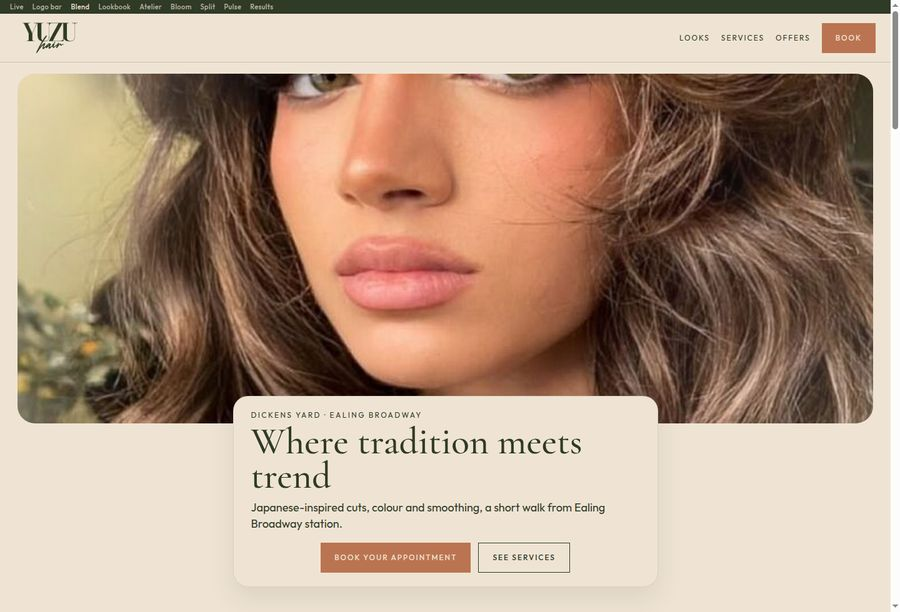
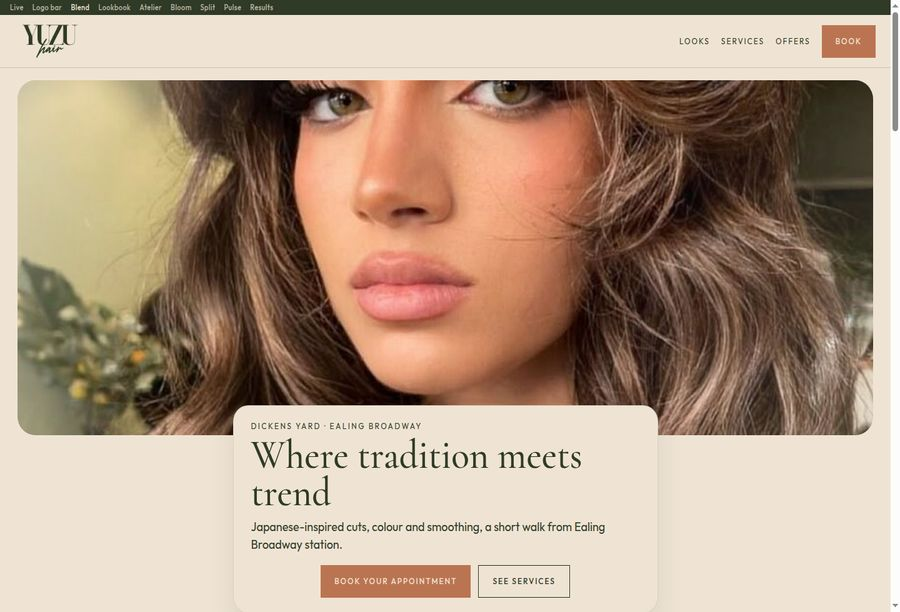
Show the hero's eyes and spread the Blend footer.
The photograph sits higher in the frame so both eyes stay in view, sections sit closer together, and the footer runs contact, hours, and booking across the width with the legal line from edge to edge.

diff --git a/site/versions/blend.css b/site/versions/blend.css
@@ -14,11 +14,7 @@
   height: min(58vh, 560px);
   border-radius: 28px;
 }
-.blend .hero-photo img {
-  object-position: center 62%;
-  transform: scale(1.08);
-  transform-origin: center 70%;
-}
+.blend .hero-photo img { object-position: center 22%; }
 .blend .hero-copy {
   position: relative;
   z-index: 2;
@@ -41,6 +37,8 @@
 .blend .hero-copy .lede { max-width: 34em; }
 .blend .hero-copy .actions { margin-top: 16px; justify-content: center; }
 .blend .center-cta { text-align: center; }
+.blend .section { padding: 28px 40px; }
+.blend .section-head { margin-bottom: 16px; }
 .blend .section-head h1 {
   font-family: var(--serif);
   font-weight: 500;
@@ -140,7 +138,7 @@
   grid-template-columns: 1.15fr 0.85fr;
   gap: 40px;
   align-items: center;
-  padding: 56px 40px;
+  padding: 28px 40px;
 }
 .blend .join-photos {
   display: grid;
@@ -165,14 +163,37 @@
 .blend .join-links { display: flex; flex-wrap: wrap; gap: 12px; align-items: center; }
 
 .blend .visit {
-  gap: 14px 28px;
+  grid-template-columns: repeat(3, minmax(0, 1fr));
+  align-items: start;
+  gap: 20px 32px;
   padding: 28px 40px 16px;
 }
-.blend .visit h2 { font-size: 22px; margin-bottom: 4px; }
+.blend .visit > div:nth-child(2) { justify-self: center; }
+.blend .visit h2 { font-size: 22px; margin-bottom: 6px; }
 .blend .visit p { font-size: 14px; line-height: 1.35; }
 .blend .visit p + p { margin-top: 8px; }
-.blend .visit .legal { font-size: 12px; margin-top: 2px; }
-.blend .visit-book { display: flex; flex-direction: column; align-items: flex-start; gap: 10px; }
+.blend .visit .legal {
+  display: flex;
+  justify-content: space-between;
+  align-items: baseline;
+  gap: 24px;
+  width: 100%;
+  max-width: none;
+  margin: 6px 0 0;
+  padding-top: 14px;
+  border-top: 1px solid rgb(239 228 212 / 0.28);
+  font-size: 13px;
+  line-height: 1.4;
+}
+.blend .legal-links { text-align: right; }
+.blend .visit-book {
+  display: flex;
+  flex-direction: column;
+  align-items: flex-end;
+  justify-self: end;
+  gap: 10px;
+  text-align: right;
+}
 .blend .socials {
   display: flex;
   gap: 10px;
@@ -196,13 +217,17 @@ body.blend a.blend-book { display: none; }
 @media (max-width: 980px) {
   .blend .services,
   .blend .reviews { grid-template-columns: 1fr 1fr; }
-  .blend .join { grid-template-columns: 1fr; padding: 40px 18px; }
+  .blend .join { grid-template-columns: 1fr; padding: 28px 18px; }
+  .blend .visit { grid-template-columns: 1fr 1fr; }
+  .blend .visit > div:nth-child(2),
+  .blend .visit-book { justify-self: start; }
+  .blend .visit-book { align-items: flex-start; text-align: left; }
 }
 
 @media (max-width: 700px) {
   .blend .hero-float { padding: 12px 12px 0; }
   .blend .hero-photo { height: 78vw; border-radius: 18px; }
-  .blend .hero-photo img { transform: none; object-position: center 48%; }
+  .blend .hero-photo img { object-position: center 18%; }
   .blend .hero-copy {
     width: calc(100% - 16px);
     margin-top: -28px;
@@ -236,7 +261,13 @@ body.blend a.blend-book { display: none; }
   .fx-bar.open ~ .blend-book { display: none; }
   .blend .fx-bar { height: 62px; }
   .blend .fx-bar .logo-home img { width: auto; height: 46px; }
-  .blend .visit { padding: 22px 18px 14px; }
+  .blend .section { padding: 24px 18px; }
+  .blend .visit {
+    grid-template-columns: 1fr;
+    padding: 22px 18px 14px;
+  }
+  .blend .visit .legal { flex-direction: column; align-items: flex-start; gap: 8px; }
+  .blend .legal-links { text-align: left; }
   .price-name { flex-basis: 120px; }
   .chairs { padding-left: 8px; }
 }

diff --git a/site/versions/blend-prices.html b/site/versions/blend-prices.html
@@ -8,7 +8,7 @@
   <link rel="stylesheet" href="fonts/fonts.css" />
   <link rel="stylesheet" href="brand.css?v=2" />
   <link rel="stylesheet" href="fresh.css?v=6" />
-  <link rel="stylesheet" href="blend.css?v=2" />
+  <link rel="stylesheet" href="blend.css?v=3" />
   <meta name="robots" content="noindex" />
   <link rel="stylesheet" href="versions-bar.css?v=5" />
 </head>
@@ -748,7 +748,7 @@
         </li>
       </ul>
     </div>
-    <p class="legal">© 2026 Yuzu Hair &amp; Beauty · <a href="../about.html">About</a> · <a href="../questions.html">Questions</a> · <a href="../patch.html">Patch testing</a> · <a href="../terms.html">Terms</a> · <a href="../privacy.html">Privacy</a></p>
+    <p class="legal"><span>© 2026 YUZU hair</span><span class="legal-links"><a href="../about.html">About</a> · <a href="../questions.html">Questions</a> · <a href="../patch.html">Patch testing</a> · <a href="../terms.html">Terms</a> · <a href="../privacy.html">Privacy</a></span></p>
   </footer>
   <a class="fx-book blend-book" href="https://www.phorest.com/salon/yuzuhairandbeauty" target="_blank" rel="noreferrer">Book<span class="vh"> (opens in a new tab)</span></a>
   <script src="menu.js?v=2"></script>

diff --git a/site/versions/blend.html b/site/versions/blend.html
@@ -9,7 +9,7 @@
   <link rel="stylesheet" href="brand.css?v=2" />
   <link rel="stylesheet" href="promo.css?v=4" />
   <link rel="stylesheet" href="fresh.css?v=6" />
-  <link rel="stylesheet" href="blend.css?v=2" />
+  <link rel="stylesheet" href="blend.css?v=3" />
   <meta name="robots" content="noindex" />
   <link rel="stylesheet" href="versions-bar.css?v=5" />
 </head>
@@ -248,7 +248,7 @@
         </li>
       </ul>
     </div>
-    <p class="legal">© 2026 Yuzu Hair &amp; Beauty · <a href="../about.html">About</a> · <a href="../questions.html">Questions</a> · <a href="../patch.html">Patch testing</a> · <a href="../terms.html">Terms</a> · <a href="../privacy.html">Privacy</a></p>
+    <p class="legal"><span>© 2026 YUZU hair</span><span class="legal-links"><a href="../about.html">About</a> · <a href="../questions.html">Questions</a> · <a href="../patch.html">Patch testing</a> · <a href="../terms.html">Terms</a> · <a href="../privacy.html">Privacy</a></span></p>
   </footer>
   <a class="fx-book blend-book" href="https://www.phorest.com/salon/yuzuhairandbeauty" target="_blank" rel="noreferrer">Book<span class="vh"> (opens in a new tab)</span></a>
   <script src="menu.js?v=2"></script>
